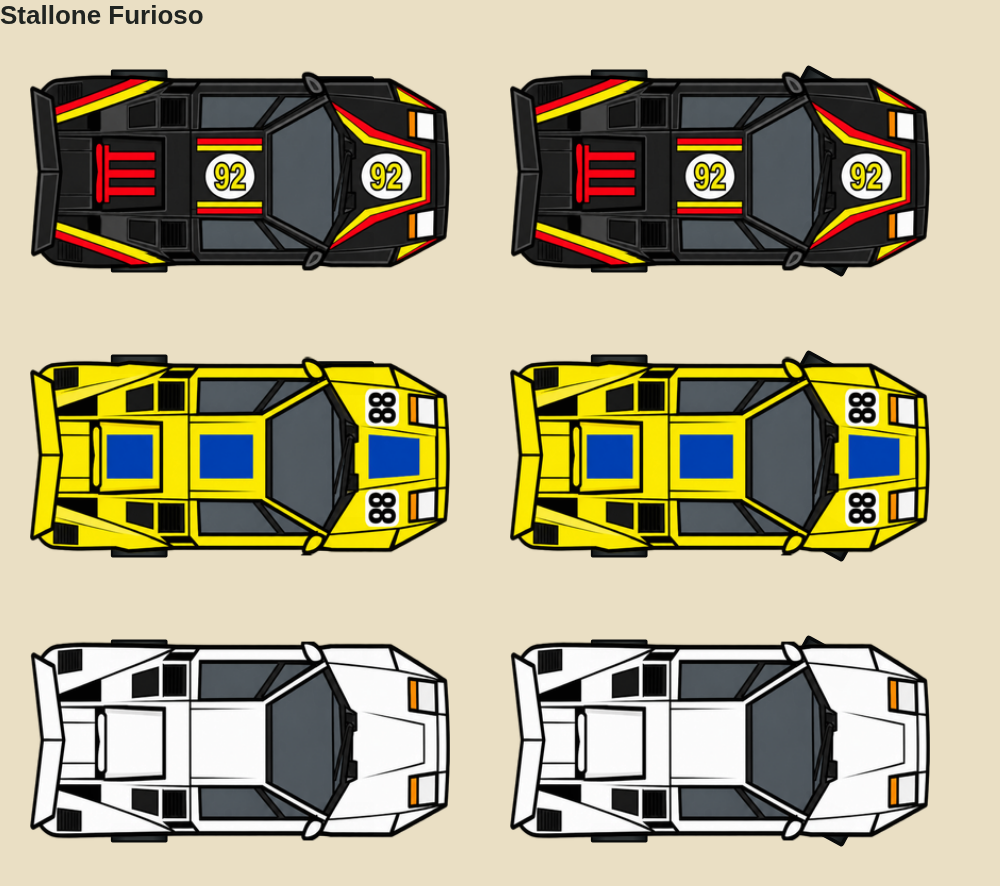
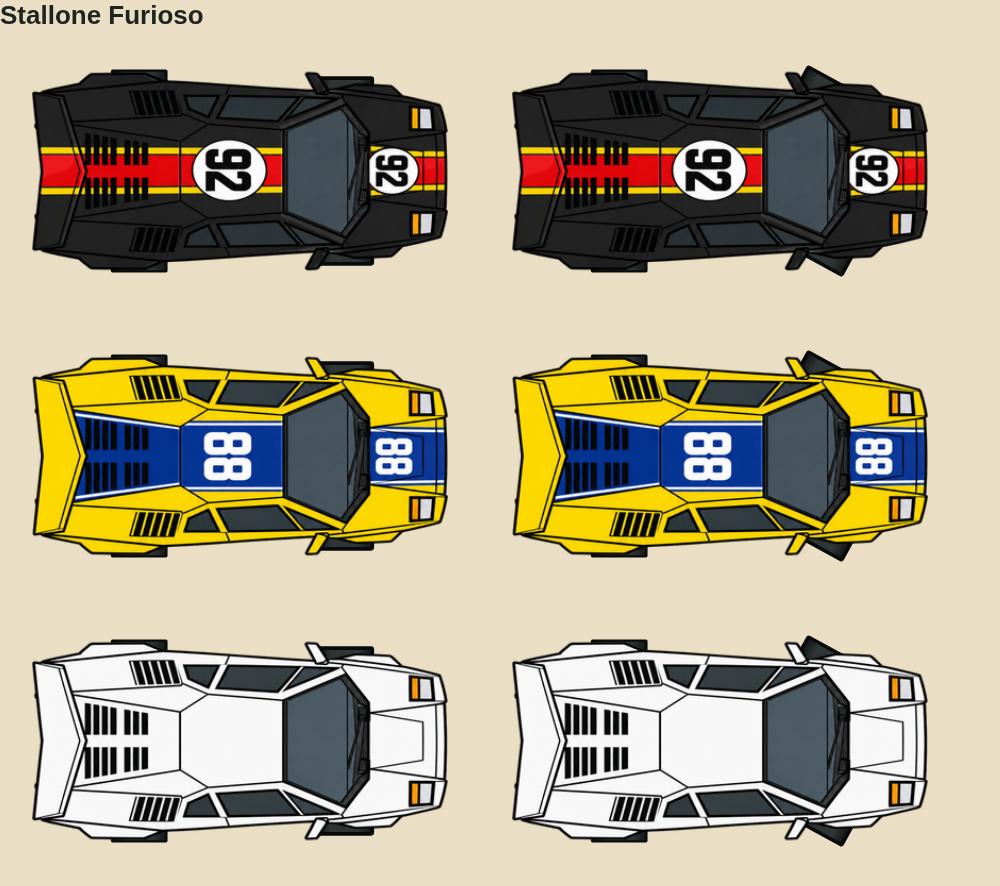
Use approved Stallone reference for the three racing liveries

diff --git a/index.html b/index.html
@@ -9,49 +9,49 @@
   <meta name="mobile-web-app-capable" content="yes">
   <meta name="theme-color" content="#0f1117">
   <title>GRIP — Racing the Line</title>
-  <link rel="icon" type="image/png" sizes="32x32" href="art/icone-32.png?v=0.52.41">
-  <link rel="icon" type="image/png" sizes="16x16" href="art/icone-16.png?v=0.52.41">
-  <link rel="icon" type="image/png" sizes="48x48" href="art/icone-48.png?v=0.52.41">
-  <link rel="icon" type="image/x-icon" href="favicon.ico?v=0.52.41">
-  <link rel="apple-touch-icon" href="art/icone-180.png?v=0.52.41">
-  <link rel="manifest" href="site.webmanifest?v=0.52.41">
-  <link rel="stylesheet" href="css/style.css?v=0.52.41">
+  <link rel="icon" type="image/png" sizes="32x32" href="art/icone-32.png?v=0.52.42">
+  <link rel="icon" type="image/png" sizes="16x16" href="art/icone-16.png?v=0.52.42">
+  <link rel="icon" type="image/png" sizes="48x48" href="art/icone-48.png?v=0.52.42">
+  <link rel="icon" type="image/x-icon" href="favicon.ico?v=0.52.42">
+  <link rel="apple-touch-icon" href="art/icone-180.png?v=0.52.42">
+  <link rel="manifest" href="site.webmanifest?v=0.52.42">
+  <link rel="stylesheet" href="css/style.css?v=0.52.42">
 </head>
 <body>
   <canvas id="game"></canvas>
   <div id="ui" class="hidden"></div>
 
-  <script src="js/version.js?v=0.52.41"></script>
-  <script src="js/maj.js?v=0.52.41"></script>
-  <script src="js/util.js?v=0.52.41"></script>
-  <script src="js/controls.js?v=0.52.41"></script>
-  <script src="js/traces.js?v=0.52.41"></script>
-  <script src="js/tracks.js?v=0.52.41"></script>
-  <script src="js/track.js?v=0.52.41"></script>
-  <script src="js/cars.js?v=0.52.41"></script>
-  <script src="js/carart.js?v=0.52.41"></script>
-  <script src="js/car.js?v=0.52.41"></script>
-  <script src="js/flags.js?v=0.52.41"></script>
-  <script src="js/race.js?v=0.52.41"></script>
-  <script src="js/career.js?v=0.52.41"></script>
-  <script src="js/store.js?v=0.52.41"></script>
-  <script src="js/props.js?v=0.52.41"></script>
-  <script src="js/room-rtc.js?v=0.52.41"></script>
-  <script src="js/paquet.js?v=0.52.41"></script>
-  <script src="js/spectator.js?v=0.52.41"></script>
-  <script src="js/net-drive.js?v=0.52.41"></script>
-  <script src="js/net.js?v=0.52.41"></script>
-  <script src="js/mondial.js?v=0.52.41"></script>
-  <script src="js/analytics.js?v=0.52.41"></script>
-  <script src="js/circuit-graphics.js?v=0.52.41"></script>
-<script src="js/render.js?v=0.52.41"></script>
-  <script src="js/engine-audio.js?v=0.52.41"></script>
-  <script src="js/audio.js?v=0.52.41"></script>
-  <script src="js/ui.js?v=0.52.41"></script>
-  <script src="js/gamepad-ui.js?v=0.52.41"></script>
-  <script src="js/main.js?v=0.52.41"></script>
-  <script src="js/static-backdrop.js?v=0.52.41"></script>
-  <script src="js/chromium-cache-fix.js?v=0.52.41"></script>
-  <script src="js/chromium-cache.js?v=0.52.41"></script>
+  <script src="js/version.js?v=0.52.42"></script>
+  <script src="js/maj.js?v=0.52.42"></script>
+  <script src="js/util.js?v=0.52.42"></script>
+  <script src="js/controls.js?v=0.52.42"></script>
+  <script src="js/traces.js?v=0.52.42"></script>
+  <script src="js/tracks.js?v=0.52.42"></script>
+  <script src="js/track.js?v=0.52.42"></script>
+  <script src="js/cars.js?v=0.52.42"></script>
+  <script src="js/carart.js?v=0.52.42"></script>
+  <script src="js/car.js?v=0.52.42"></script>
+  <script src="js/flags.js?v=0.52.42"></script>
+  <script src="js/race.js?v=0.52.42"></script>
+  <script src="js/career.js?v=0.52.42"></script>
+  <script src="js/store.js?v=0.52.42"></script>
+  <script src="js/props.js?v=0.52.42"></script>
+  <script src="js/room-rtc.js?v=0.52.42"></script>
+  <script src="js/paquet.js?v=0.52.42"></script>
+  <script src="js/spectator.js?v=0.52.42"></script>
+  <script src="js/net-drive.js?v=0.52.42"></script>
+  <script src="js/net.js?v=0.52.42"></script>
+  <script src="js/mondial.js?v=0.52.42"></script>
+  <script src="js/analytics.js?v=0.52.42"></script>
+  <script src="js/circuit-graphics.js?v=0.52.42"></script>
+<script src="js/render.js?v=0.52.42"></script>
+  <script src="js/engine-audio.js?v=0.52.42"></script>
+  <script src="js/audio.js?v=0.52.42"></script>
+  <script src="js/ui.js?v=0.52.42"></script>
+  <script src="js/gamepad-ui.js?v=0.52.42"></script>
+  <script src="js/main.js?v=0.52.42"></script>
+  <script src="js/static-backdrop.js?v=0.52.42"></script>
+  <script src="js/chromium-cache-fix.js?v=0.52.42"></script>
+  <script src="js/chromium-cache.js?v=0.52.42"></script>
 </body>
 </html>

diff --git a/editor.html b/editor.html
@@ -4,12 +4,12 @@
   <meta charset="utf-8">
   <meta name="viewport" content="width=device-width, initial-scale=1">
   <title>GRIP — Éditeur de circuits</title>
-  <link rel="icon" type="image/png" sizes="32x32" href="art/icone-32.png?v=0.52.41">
-  <link rel="icon" type="image/png" sizes="16x16" href="art/icone-16.png?v=0.52.41">
-  <link rel="icon" type="image/png" sizes="48x48" href="art/icone-48.png?v=0.52.41">
-  <link rel="icon" type="image/x-icon" href="favicon.ico?v=0.52.41">
-  <link rel="apple-touch-icon" href="art/icone-180.png?v=0.52.41">
-  <link rel="stylesheet" href="css/style.css?v=0.52.41">
+  <link rel="icon" type="image/png" sizes="32x32" href="art/icone-32.png?v=0.52.42">
+  <link rel="icon" type="image/png" sizes="16x16" href="art/icone-16.png?v=0.52.42">
+  <link rel="icon" type="image/png" sizes="48x48" href="art/icone-48.png?v=0.52.42">
+  <link rel="icon" type="image/x-icon" href="favicon.ico?v=0.52.42">
+  <link rel="apple-touch-icon" href="art/icone-180.png?v=0.52.42">
+  <link rel="stylesheet" href="css/style.css?v=0.52.42">
   <style>
     body { overflow: hidden; }
     #ed { position: fixed; inset: 0; display: grid; grid-template-columns: 300px 1fr; }
@@ -61,16 +61,16 @@
       </div>
     </div>
   </div>
-  <script src="js/util.js?v=0.52.41"></script>
-  <script src="js/traces.js?v=0.52.41"></script>
-  <script src="js/tracks.js?v=0.52.41"></script>
-  <script src="js/track.js?v=0.52.41"></script>
-  <script src="js/store.js?v=0.52.41"></script>
-  <script src="js/props.js?v=0.52.41"></script>
-  <script src="js/circuit-graphics.js?v=0.52.41"></script>
-  <script src="js/flags.js?v=0.52.41"></script>
-  <script src="js/render.js?v=0.52.41"></script>
-  <script src="js/fichier-tracks.js?v=0.52.41"></script>
-  <script src="js/editeur-decor.js?v=0.52.41"></script>
+  <script src="js/util.js?v=0.52.42"></script>
+  <script src="js/traces.js?v=0.52.42"></script>
+  <script src="js/tracks.js?v=0.52.42"></script>
+  <script src="js/track.js?v=0.52.42"></script>
+  <script src="js/store.js?v=0.52.42"></script>
+  <script src="js/props.js?v=0.52.42"></script>
+  <script src="js/circuit-graphics.js?v=0.52.42"></script>
+  <script src="js/flags.js?v=0.52.42"></script>
+  <script src="js/render.js?v=0.52.42"></script>
+  <script src="js/fichier-tracks.js?v=0.52.42"></script>
+  <script src="js/editeur-decor.js?v=0.52.42"></script>
 </body>
 </html>

diff --git a/lignes.html b/lignes.html
@@ -4,12 +4,12 @@
 <meta charset="utf-8">
 <meta name="viewport" content="width=device-width, initial-scale=1, viewport-fit=cover, maximum-scale=1">
 <title>GRIP — Éditeur de lignes et de panneaux</title>
-<link rel="icon" type="image/png" sizes="32x32" href="art/icone-32.png?v=0.52.41">
-<link rel="icon" type="image/png" sizes="16x16" href="art/icone-16.png?v=0.52.41">
-<link rel="icon" type="image/png" sizes="48x48" href="art/icone-48.png?v=0.52.41">
-<link rel="icon" type="image/x-icon" href="favicon.ico?v=0.52.41">
-<link rel="apple-touch-icon" href="art/icone-180.png?v=0.52.41">
-<link rel="stylesheet" href="css/style.css?v=0.52.41">
+<link rel="icon" type="image/png" sizes="32x32" href="art/icone-32.png?v=0.52.42">
+<link rel="icon" type="image/png" sizes="16x16" href="art/icone-16.png?v=0.52.42">
+<link rel="icon" type="image/png" sizes="48x48" href="art/icone-48.png?v=0.52.42">
+<link rel="icon" type="image/x-icon" href="favicon.ico?v=0.52.42">
+<link rel="apple-touch-icon" href="art/icone-180.png?v=0.52.42">
+<link rel="stylesheet" href="css/style.css?v=0.52.42">
 <style>
   body { overflow: hidden; }
   #ed { position: fixed; inset: 0; display: grid; grid-template-columns: 340px 1fr; }
@@ -240,16 +240,16 @@
   </div>
 </div>
 
-<script src="js/store.js?v=0.52.41"></script>
-<script src="js/util.js?v=0.52.41"></script>
-<script src="js/traces.js?v=0.52.41"></script>
-<script src="js/tracks.js?v=0.52.41"></script>
-<script src="js/track.js?v=0.52.41"></script>
-<script src="js/props.js?v=0.52.41"></script>
-<script src="js/circuit-graphics.js?v=0.52.41"></script>
-<script src="js/flags.js?v=0.52.41"></script>
-<script src="js/render.js?v=0.52.41"></script>
-<script src="js/fichier-tracks.js?v=0.52.41"></script>
-<script src="js/lignes.js?v=0.52.41"></script>
+<script src="js/store.js?v=0.52.42"></script>
+<script src="js/util.js?v=0.52.42"></script>
+<script src="js/traces.js?v=0.52.42"></script>
+<script src="js/tracks.js?v=0.52.42"></script>
+<script src="js/track.js?v=0.52.42"></script>
+<script src="js/props.js?v=0.52.42"></script>
+<script src="js/circuit-graphics.js?v=0.52.42"></script>
+<script src="js/flags.js?v=0.52.42"></script>
+<script src="js/render.js?v=0.52.42"></script>
+<script src="js/fichier-tracks.js?v=0.52.42"></script>
+<script src="js/lignes.js?v=0.52.42"></script>
 </body>
 </html>

diff --git a/analytics.html b/analytics.html
@@ -6,8 +6,8 @@
   <meta name="robots" content="noindex,nofollow">
   <meta name="referrer" content="same-origin">
   <title>Statistiques · GRIP</title>
-  <link rel="icon" href="art/icone-32.png?v=0.52.41">
-  <link rel="stylesheet" href="css/analytics.css?v=0.52.41">
+  <link rel="icon" href="art/icone-32.png?v=0.52.42">
+  <link rel="stylesheet" href="css/analytics.css?v=0.52.42">
 </head>
 <body>
   <header><a class="brand" href="index.html">GRIP <span> / ANALYTICS</span></a>
@@ -45,9 +45,9 @@
         <p><span data-i18n="charts">Graphiques :</span> <a href="https://github.com/apache/echarts">Apache ECharts 6.0.0</a> · <a href="vendor/echarts/LICENSE">Apache 2.0</a>. <a href="docs/analytics/README.md" data-i18n="install">Installation et définitions</a>.</p></footer>
     </div>
   </main>
-  <script src="js/version.js?v=0.52.41"></script><script src="js/util.js?v=0.52.41"></script>
-  <script src="js/traces.js?v=0.52.41"></script><script src="js/tracks.js?v=0.52.41"></script><script src="js/cars.js?v=0.52.41"></script>
-  <script src="js/mondial.js?v=0.52.41"></script><script src="vendor/echarts/echarts.min.js?v=0.52.41"></script>
-  <script src="js/analytics-dashboard.js?v=0.52.41"></script>
+  <script src="js/version.js?v=0.52.42"></script><script src="js/util.js?v=0.52.42"></script>
+  <script src="js/traces.js?v=0.52.42"></script><script src="js/tracks.js?v=0.52.42"></script><script src="js/cars.js?v=0.52.42"></script>
+  <script src="js/mondial.js?v=0.52.42"></script><script src="vendor/echarts/echarts.min.js?v=0.52.42"></script>
+  <script src="js/analytics-dashboard.js?v=0.52.42"></script>
 </body>
 </html>

diff --git a/moteur.html b/moteur.html
@@ -4,12 +4,12 @@
   <meta charset="utf-8">
   <meta name="viewport" content="width=device-width, initial-scale=1, viewport-fit=cover">
   <title>GRIP — banc moteur</title>
-  <link rel="icon" type="image/png" sizes="32x32" href="art/icone-32.png?v=0.52.41">
-  <link rel="icon" type="image/png" sizes="16x16" href="art/icone-16.png?v=0.52.41">
-  <link rel="icon" type="image/png" sizes="48x48" href="art/icone-48.png?v=0.52.41">
-  <link rel="icon" type="image/x-icon" href="favicon.ico?v=0.52.41">
-  <link rel="apple-touch-icon" href="art/icone-180.png?v=0.52.41">
-  <link rel="stylesheet" href="css/style.css?v=0.52.41">
+  <link rel="icon" type="image/png" sizes="32x32" href="art/icone-32.png?v=0.52.42">
+  <link rel="icon" type="image/png" sizes="16x16" href="art/icone-16.png?v=0.52.42">
+  <link rel="icon" type="image/png" sizes="48x48" href="art/icone-48.png?v=0.52.42">
+  <link rel="icon" type="image/x-icon" href="favicon.ico?v=0.52.42">
+  <link rel="apple-touch-icon" href="art/icone-180.png?v=0.52.42">
+  <link rel="stylesheet" href="css/style.css?v=0.52.42">
   <style>
     body { margin: 0; background: #0f1117; color: #e8e8ec; font: 15px/1.5 system-ui, sans-serif; }
     .banc { max-width: 720px; margin: 0 auto; padding: 18px 16px 60px; }
@@ -55,7 +55,7 @@
     <p class="muted" style="margin-top:18px">Ce que le mélangeur envoie, en direct :</p>
     <table id="voies"></table>
   </div>
-  <script src="js/engine-audio.js?v=0.52.41"></script>
-  <script src="js/moteur.js?v=0.52.41"></script>
+  <script src="js/engine-audio.js?v=0.52.42"></script>
+  <script src="js/moteur.js?v=0.52.42"></script>
 </body>
 </html>

diff --git a/js/version.js b/js/version.js
@@ -11,7 +11,7 @@ browser to fetch the new files.
 */
 'use strict';
 
-const APP_VERSION = '0.52.41';
+const APP_VERSION = '0.52.42';
 const APP_DATE = '2026-10-29';
 /* Le canal. Le dépôt, tel quel, EST la recette : c'est lui que sert brunodrapi.github.io/Slot_car_racing,
 code source commenté compris. La prod est la version fabriquée par `tools/build-dist.js`, qui écrit

diff --git a/CHANGELOG.md b/CHANGELOG.md
@@ -4,6 +4,9 @@ Ce qui change pour le joueur, version par version, en une ligne et sans détail 
 message des publications en prod (`tools/publier.sh`) ; le pourquoi et les mesures sont dans le code
 et dans le README.
 
+## 0.52.42
+- Stallone : trois sprites de course repris à partir du modèle fourni et validé par le joueur.
+
 ## 0.52.41
 - Windsor 07 et Ground 79 : suspensions avant rétablies ; pneus avant des F1 ajustés à chaque modèle, plus étroits que les pneus arrière.
 - GT40 et Langheck : léger dépassement des pneus à l'avant et à l'arrière.

diff --git a/docs/stallone-modele-valide/README.md b/docs/stallone-modele-valide/README.md
@@ -1,0 +1,3 @@
+# Stallone — modèle validé
+
+Trois livrées à partir du nouveau modèle fourni par le joueur : noire 92, jaune et bleue 88, blanche ludes, babe. Sprites transparents 395 × 203 px, orientés vers la droite pour le moteur de jeu.
